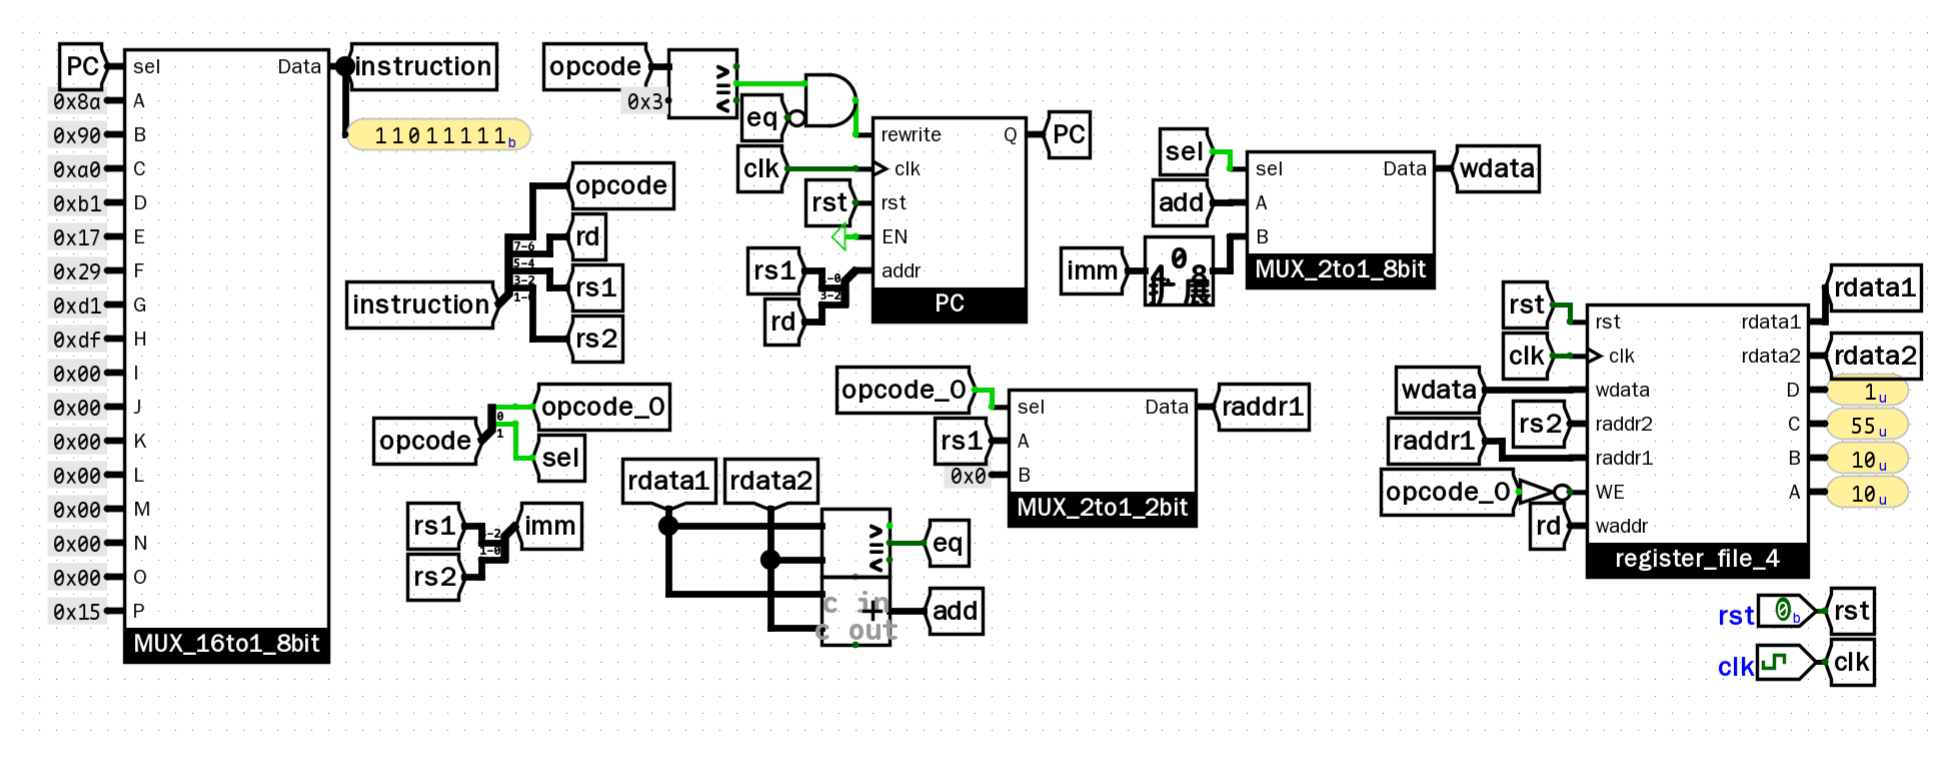
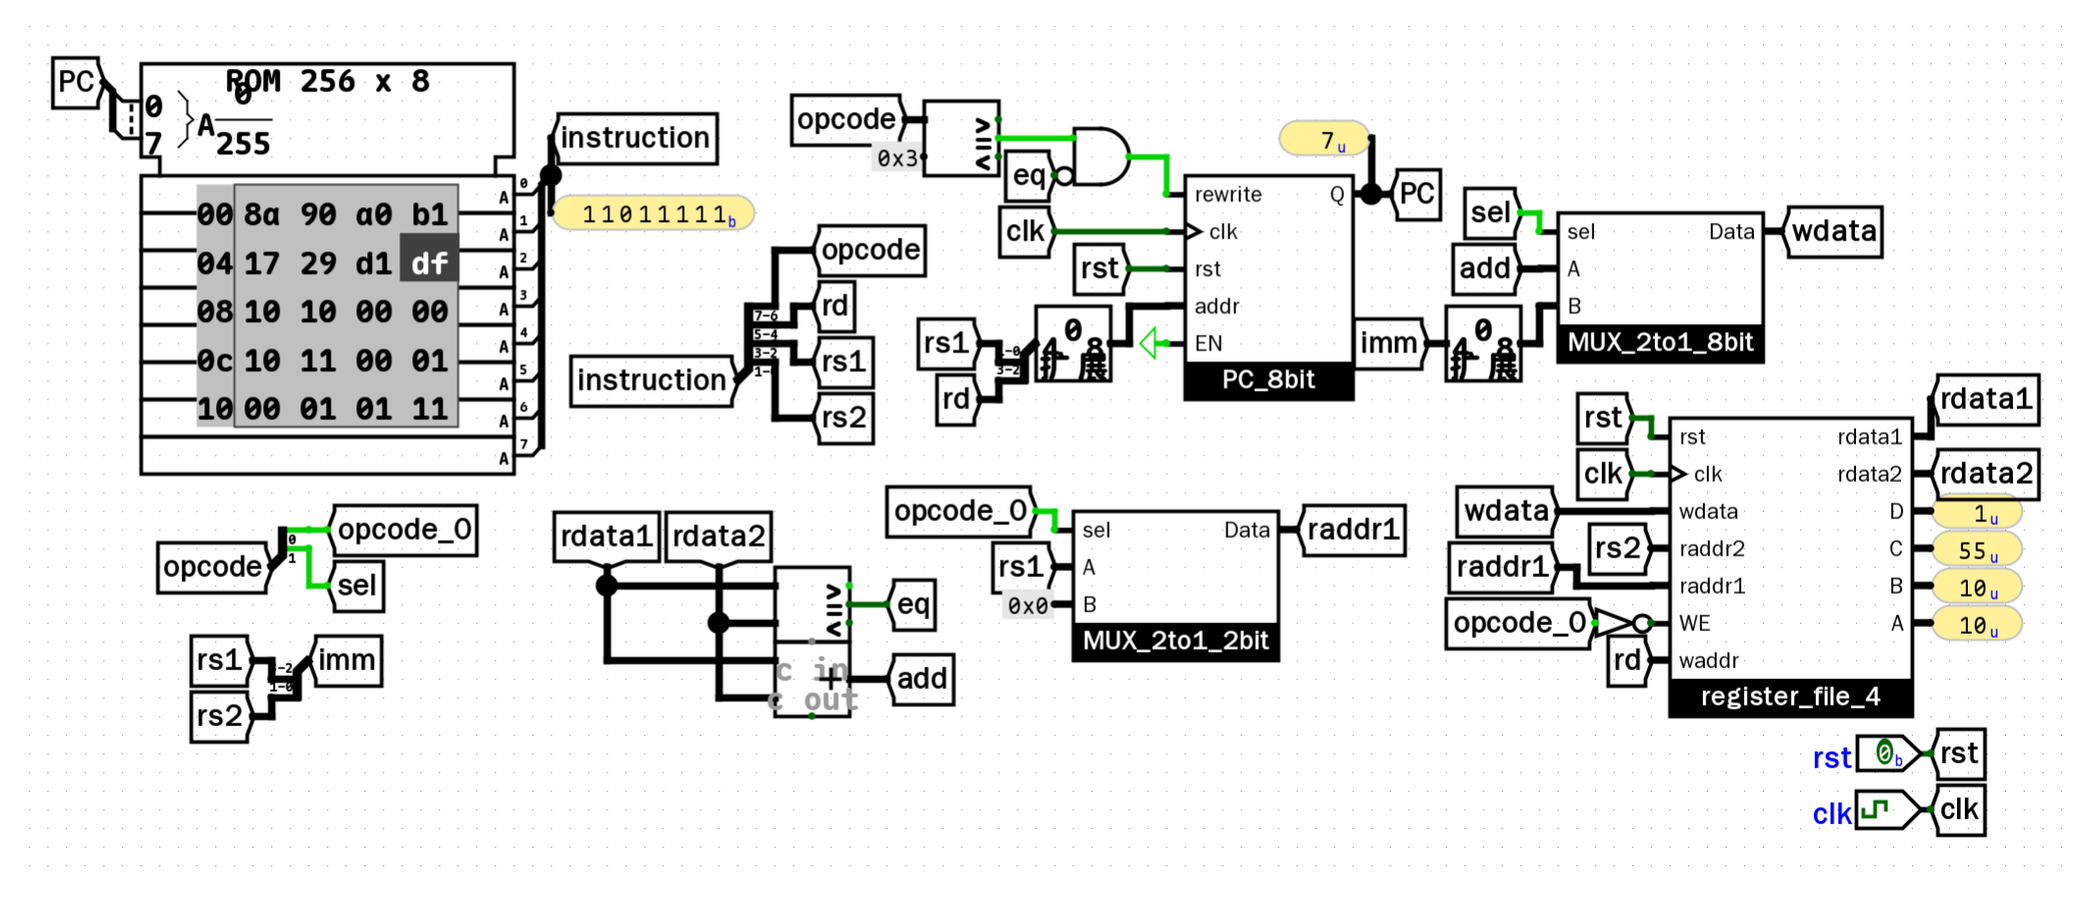
docs(digital-circuits): update scpu architecture screenshot and text with 8-bit PC and 256x8 ROM

Changed region(s): [[0.0, 0.0304, 0.999, 0.9419]]

diff --git a/src/content/posts/digital-circuits-basics/index.md b/src/content/posts/digital-circuits-basics/index.md
@@ -869,8 +869,8 @@ $$1 + 2 + 3 + \dots + 10 = 55$$
 sISA 专为理解处理器微架构而设计，其硬件规格与指令编码如下：
 
 1. **架构状态（Architectural State）**：
-   - **程序计数器（PC）**：标准位宽为 8 位，初值为 0（寻址空间 256 字节；在仅含 8 条指令的求和程序中，取低 4 位寻址 16 单元 ROM 即可闭环）；
-   - **程序存储器（ROM）**：16 单元 $\times$ 8 位宽；
+   - **程序计数器（PC）**：8 位宽，初值为 0，寻址空间 256 字节；
+   - **程序存储器（ROM）**：256 单元 $\times$ 8 位宽；
    - **通用寄存器组（GPR）**：4 个 8 位寄存器（$r0 \sim r3$），寄存器编号需 2 位（`00` $\sim$ `11`）。
 
 2. **指令格式（定长 8 位）**：
@@ -895,12 +895,12 @@ sISA 专为理解处理器微架构而设计，其硬件规格与指令编码如
 整个 sCPU 由五大功能模块构成：
 
 1. **取指单元（Instruction Fetch, IF）**：
-   - 4 位 PC 寄存器驱动 ROM 地址端，输出当前指令 `instruction[7..0]`；
-   - PC 默认连接自增加法器（$PC + 1$）；当跳转条件满足时，由 2-1 MUX 切换为指令中抽取的 `addr[3..0]`。
+   - 8 位 PC 寄存器驱动 256 字节 ROM 地址端，输出当前指令 `instruction[7..0]`；
+   - PC 内部默认连接 8 位自增加法器（$PC + 1$）；当跳转条件满足时，切换为位扩展器补零后的 8 位目标地址 `addr`。
 2. **指令译码器（Instruction Decode, ID）**：
    - 指令总线通过分线器解耦为：$Opcode = inst[7:6]$、$rd = inst[5:4]$、$rs1 = inst[3:2]$、$rs2 = inst[1:0]$；
-   - 立即数抽取：低 4 位经位扩展器（Bit Extender）高位补零扩展为 8 位立即数 `imm[7..0]`；
-   - 跳转目标地址组合：`rs1` 与 `rd` 拼接出 4 位跳转目标 `addr[3..0]`。
+   - 立即数抽取：`rs1` 与 `rs2` 拼接成 4 位立即数，经位扩展器高位补零扩展为 8 位立即数 `imm[7..0]`；
+   - 跳转目标组合：`rs1` 与 `rd` 拼接出 4 位目标地址，经位扩展器高位补零扩展为 8 位送入 `PC_8bit`。
 3. **两读一写通用寄存器堆（Register File, GPR）**：
    - **写端口**：`waddr[1..0]` 经 2-4 译码器生成 4 路独热使能线；写使能 $WE = \overline{Opcode[0]}$（当指令为 `bner0` 时拉低关断写权限）；写数据 `wdata` 由 2-1 MUX 在 `imm` 与加法器输出之间选择；
    - **读端口 1**：地址 `raddr1` 由 2-1 MUX 控制，若为 `bner0` 强制选通 $00$（读取 $R[0]$），否则读取 `rs1`；
@@ -923,9 +923,9 @@ sISA 专为理解处理器微架构而设计，其硬件规格与指令编码如
   - PC 在 4、5、6 之间自旋循环，每一轮循环项计数器 $r1$ 递增 1，累加和 $r2$ 依次经历 $1 \rightarrow 3 \rightarrow 6 \rightarrow 10 \rightarrow 15 \rightarrow 21 \rightarrow 28 \rightarrow 36 \rightarrow 45 \rightarrow 55$；
   - 在第 10 次执行到 PC=6 时，比较器检测到 $r1 == r0$（两者均为 10），不相等条件失效，$\text{rewrite} = 0$，PC 不再跳转而顺序流入地址 7；
 - **停机态收敛（PC: 7）**：
-  - PC 停在地址 7，指令探针显示停机指令 `11011111_b`（`0xdf`）；
+  - PC 停在地址 7（探针显示 `7_u`），指令探针显示停机死循环指令 `11011111_b`（`0xdf`，即 `bner0 r3, 7`）；
   - 寄存器输出探针反映最终收敛状态：
-    - **`A` ($r0$)**：`10_u`
-    - **`B` ($r1$)**：`10_u`
-    - **`C` ($r2$)**：**`55_u`**（等差数列和 $1+\dots+10$ 累加结果）
-    - **`D` ($r3$)**：`1_u`
+    - **`A` ($r0$)**：`10_u`（循环上限哨兵）
+    - **`B` ($r1$)**：`10_u`（累加项计数器 $i$）
+    - **`C` ($r2$)**：**`55_u`**（$1+\dots+10$ 累加和结果）
+    - **`D` ($r3$)**：`1_u`（递增步长）
